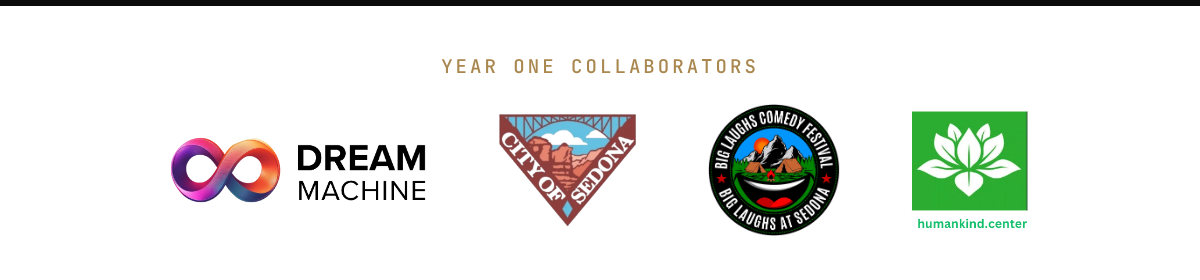
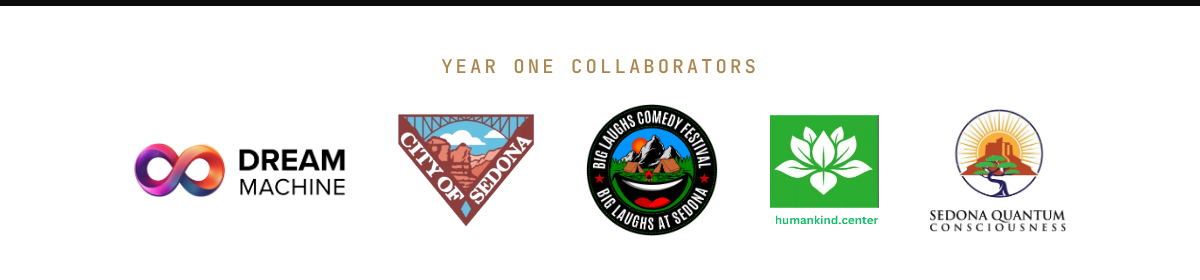
Add Sedona Quantum Consciousness to Year One Collaborators (site and email footer)
Claude-Session: https://claude.ai/code/session_01RNdJaLkAZgGiP9P4nM93yt

Changed region(s): [[0.0925, 0.3714, 0.8942, 0.8571]]

diff --git a/brevo/template-comedians.html b/brevo/template-comedians.html
@@ -30,7 +30,7 @@
   <tr><td style="padding:0 32px 32px;"><table role="presentation" cellpadding="0" cellspacing="0" border="0"><tr><td style="background:#0A7D5E;border-radius:999px;"><a href="https://comedylabsedona.com/#vote" style="display:inline-block;padding:14px 24px;font-family:Arial,Helvetica,sans-serif;font-size:16px;font-weight:bold;color:#FFFFFF;text-decoration:none;">Submit a clip</a></td></tr></table></td></tr>
 
   <!-- FOOTER -->
-  <tr><td><img src="https://comedylabsedona.com/assets/email/collaborators.png" width="600" alt="Year One Collaborators: The Dream Machine, City of Sedona, Big Laughs Festival, Humankind" style="display:block;width:100%;max-width:600px;height:auto;border:0;"></td></tr>
+  <tr><td><img src="https://comedylabsedona.com/assets/email/collaborators.png" width="600" alt="Year One Collaborators: The Dream Machine, City of Sedona, Big Laughs Festival, Humankind, Sedona Quantum Consciousness" style="display:block;width:100%;max-width:600px;height:auto;border:0;"></td></tr>
   <tr><td style="background:#0B0B0B;padding:4px 32px 28px;font-family:Arial,Helvetica,sans-serif;color:#C9CDCF;font-size:13px;line-height:1.7;text-align:center;">
     With Zenka Caro and Freddie Bell Jr. of Big Laughs Festival<br>
     <a href="https://thedreammachine.org" style="color:#3FCF9E;">The Dream Machine</a> · <a href="https://www.sedonaaz.gov" style="color:#3FCF9E;">City of Sedona</a> · <a href="https://biglaughsfestival.com" style="color:#3FCF9E;">Big Laughs Festival</a> · <a href="https://humankind.center" style="color:#3FCF9E;">Humankind</a><br>

diff --git a/brevo/template-updates.html b/brevo/template-updates.html
@@ -32,7 +32,7 @@
   <tr><td style="padding:0 32px 32px;"><table role="presentation" cellpadding="0" cellspacing="0" border="0"><tr><td style="background:#0A7D5E;border-radius:999px;"><a href="https://comedylabsedona.com/#vote" style="display:inline-block;padding:14px 24px;font-family:Arial,Helvetica,sans-serif;font-size:16px;font-weight:bold;color:#FFFFFF;text-decoration:none;">Submit a clip</a></td></tr></table></td></tr>
 
   <!-- FOOTER -->
-  <tr><td><img src="https://comedylabsedona.com/assets/email/collaborators.png" width="600" alt="Year One Collaborators: The Dream Machine, City of Sedona, Big Laughs Festival, Humankind" style="display:block;width:100%;max-width:600px;height:auto;border:0;"></td></tr>
+  <tr><td><img src="https://comedylabsedona.com/assets/email/collaborators.png" width="600" alt="Year One Collaborators: The Dream Machine, City of Sedona, Big Laughs Festival, Humankind, Sedona Quantum Consciousness" style="display:block;width:100%;max-width:600px;height:auto;border:0;"></td></tr>
   <tr><td style="background:#0B0B0B;padding:4px 32px 28px;font-family:Arial,Helvetica,sans-serif;color:#C9CDCF;font-size:13px;line-height:1.7;text-align:center;">
     With Zenka Caro and Freddie Bell Jr. of Big Laughs Festival<br>
     <a href="https://thedreammachine.org" style="color:#3FCF9E;">The Dream Machine</a> · <a href="https://www.sedonaaz.gov" style="color:#3FCF9E;">City of Sedona</a> · <a href="https://biglaughsfestival.com" style="color:#3FCF9E;">Big Laughs Festival</a> · <a href="https://humankind.center" style="color:#3FCF9E;">Humankind</a><br>

diff --git a/site/index.html b/site/index.html
@@ -251,7 +251,7 @@ a.btn{text-decoration:none;display:inline-block}
 .collab-logos{display:flex;flex-wrap:wrap;justify-content:center;align-items:center;gap:clamp(24px,5vw,64px)}
 .collab-logos a{display:block;border-radius:8px}
 .collab-logos img{width:auto;max-width:100%;display:block}
-@media (max-width:640px){.collab-logos{gap:14px}.collab-logos img{height:auto!important;max-height:64px;max-width:21vw}}
+@media (max-width:640px){.collab-logos{gap:10px;flex-wrap:nowrap}.collab-logos img{height:auto!important;max-height:56px;max-width:17vw}}
 .board.houses{grid-template-columns:repeat(auto-fit,minmax(220px,1fr));margin-top:24px}
 .slot.in .bio a,.slot.open .bio a{color:inherit}
 </style>
@@ -295,6 +295,7 @@ a.btn{text-decoration:none;display:inline-block}
     <a href="https://biglaughsfestival.com/" target="_blank" rel="noopener"><img src="assets/img/collab/big-laughs-festival.png" alt="Big Laughs Festival" width="602" height="600" style="height:104px"></a>
     <a href="https://www.sedonaaz.gov" target="_blank" rel="noopener"><img src="assets/img/collab/city-of-sedona.png" alt="City of Sedona" width="227" height="189" style="height:96px"></a>
     <a href="https://humankind.center" target="_blank" rel="noopener"><img src="assets/img/collab/humankind.png" alt="Humankind, humankind.center" width="214" height="215" style="height:100px"></a>
+    <span><img src="assets/img/collab/sedona-quantum-consciousness.png" alt="Sedona Quantum Consciousness" width="290" height="261" style="height:100px"></span>
   </div>
 </div></section>
 
